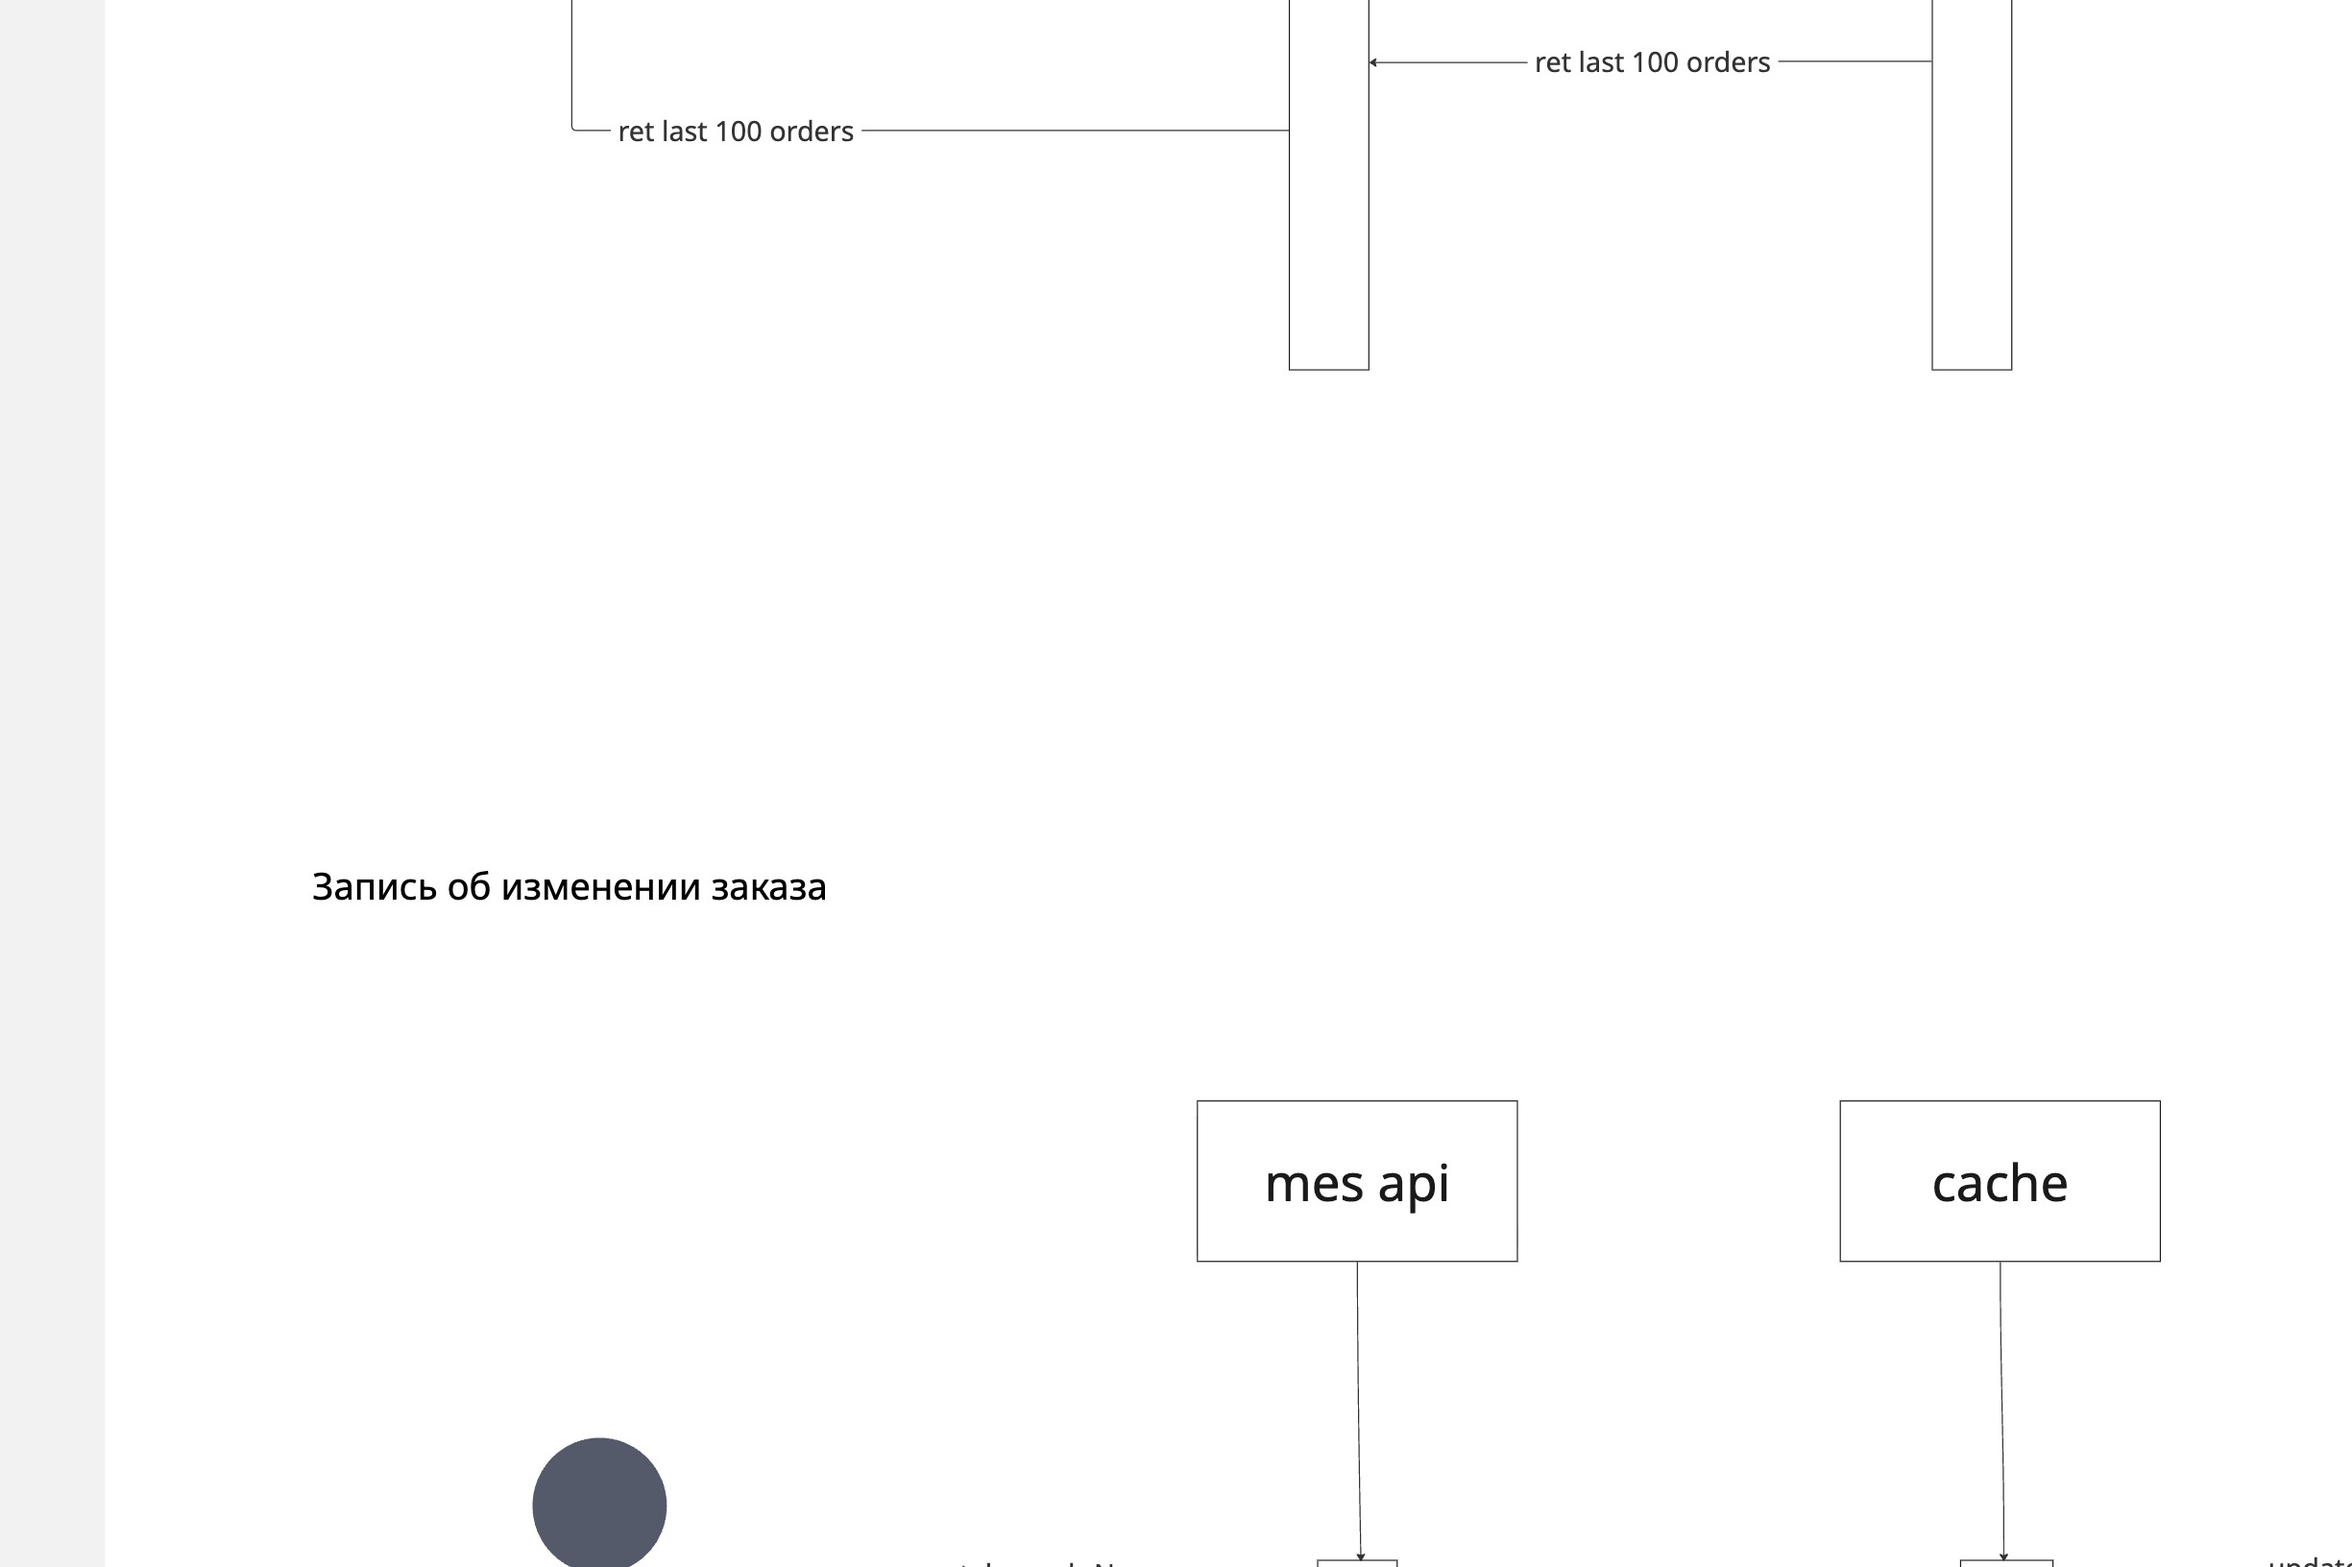
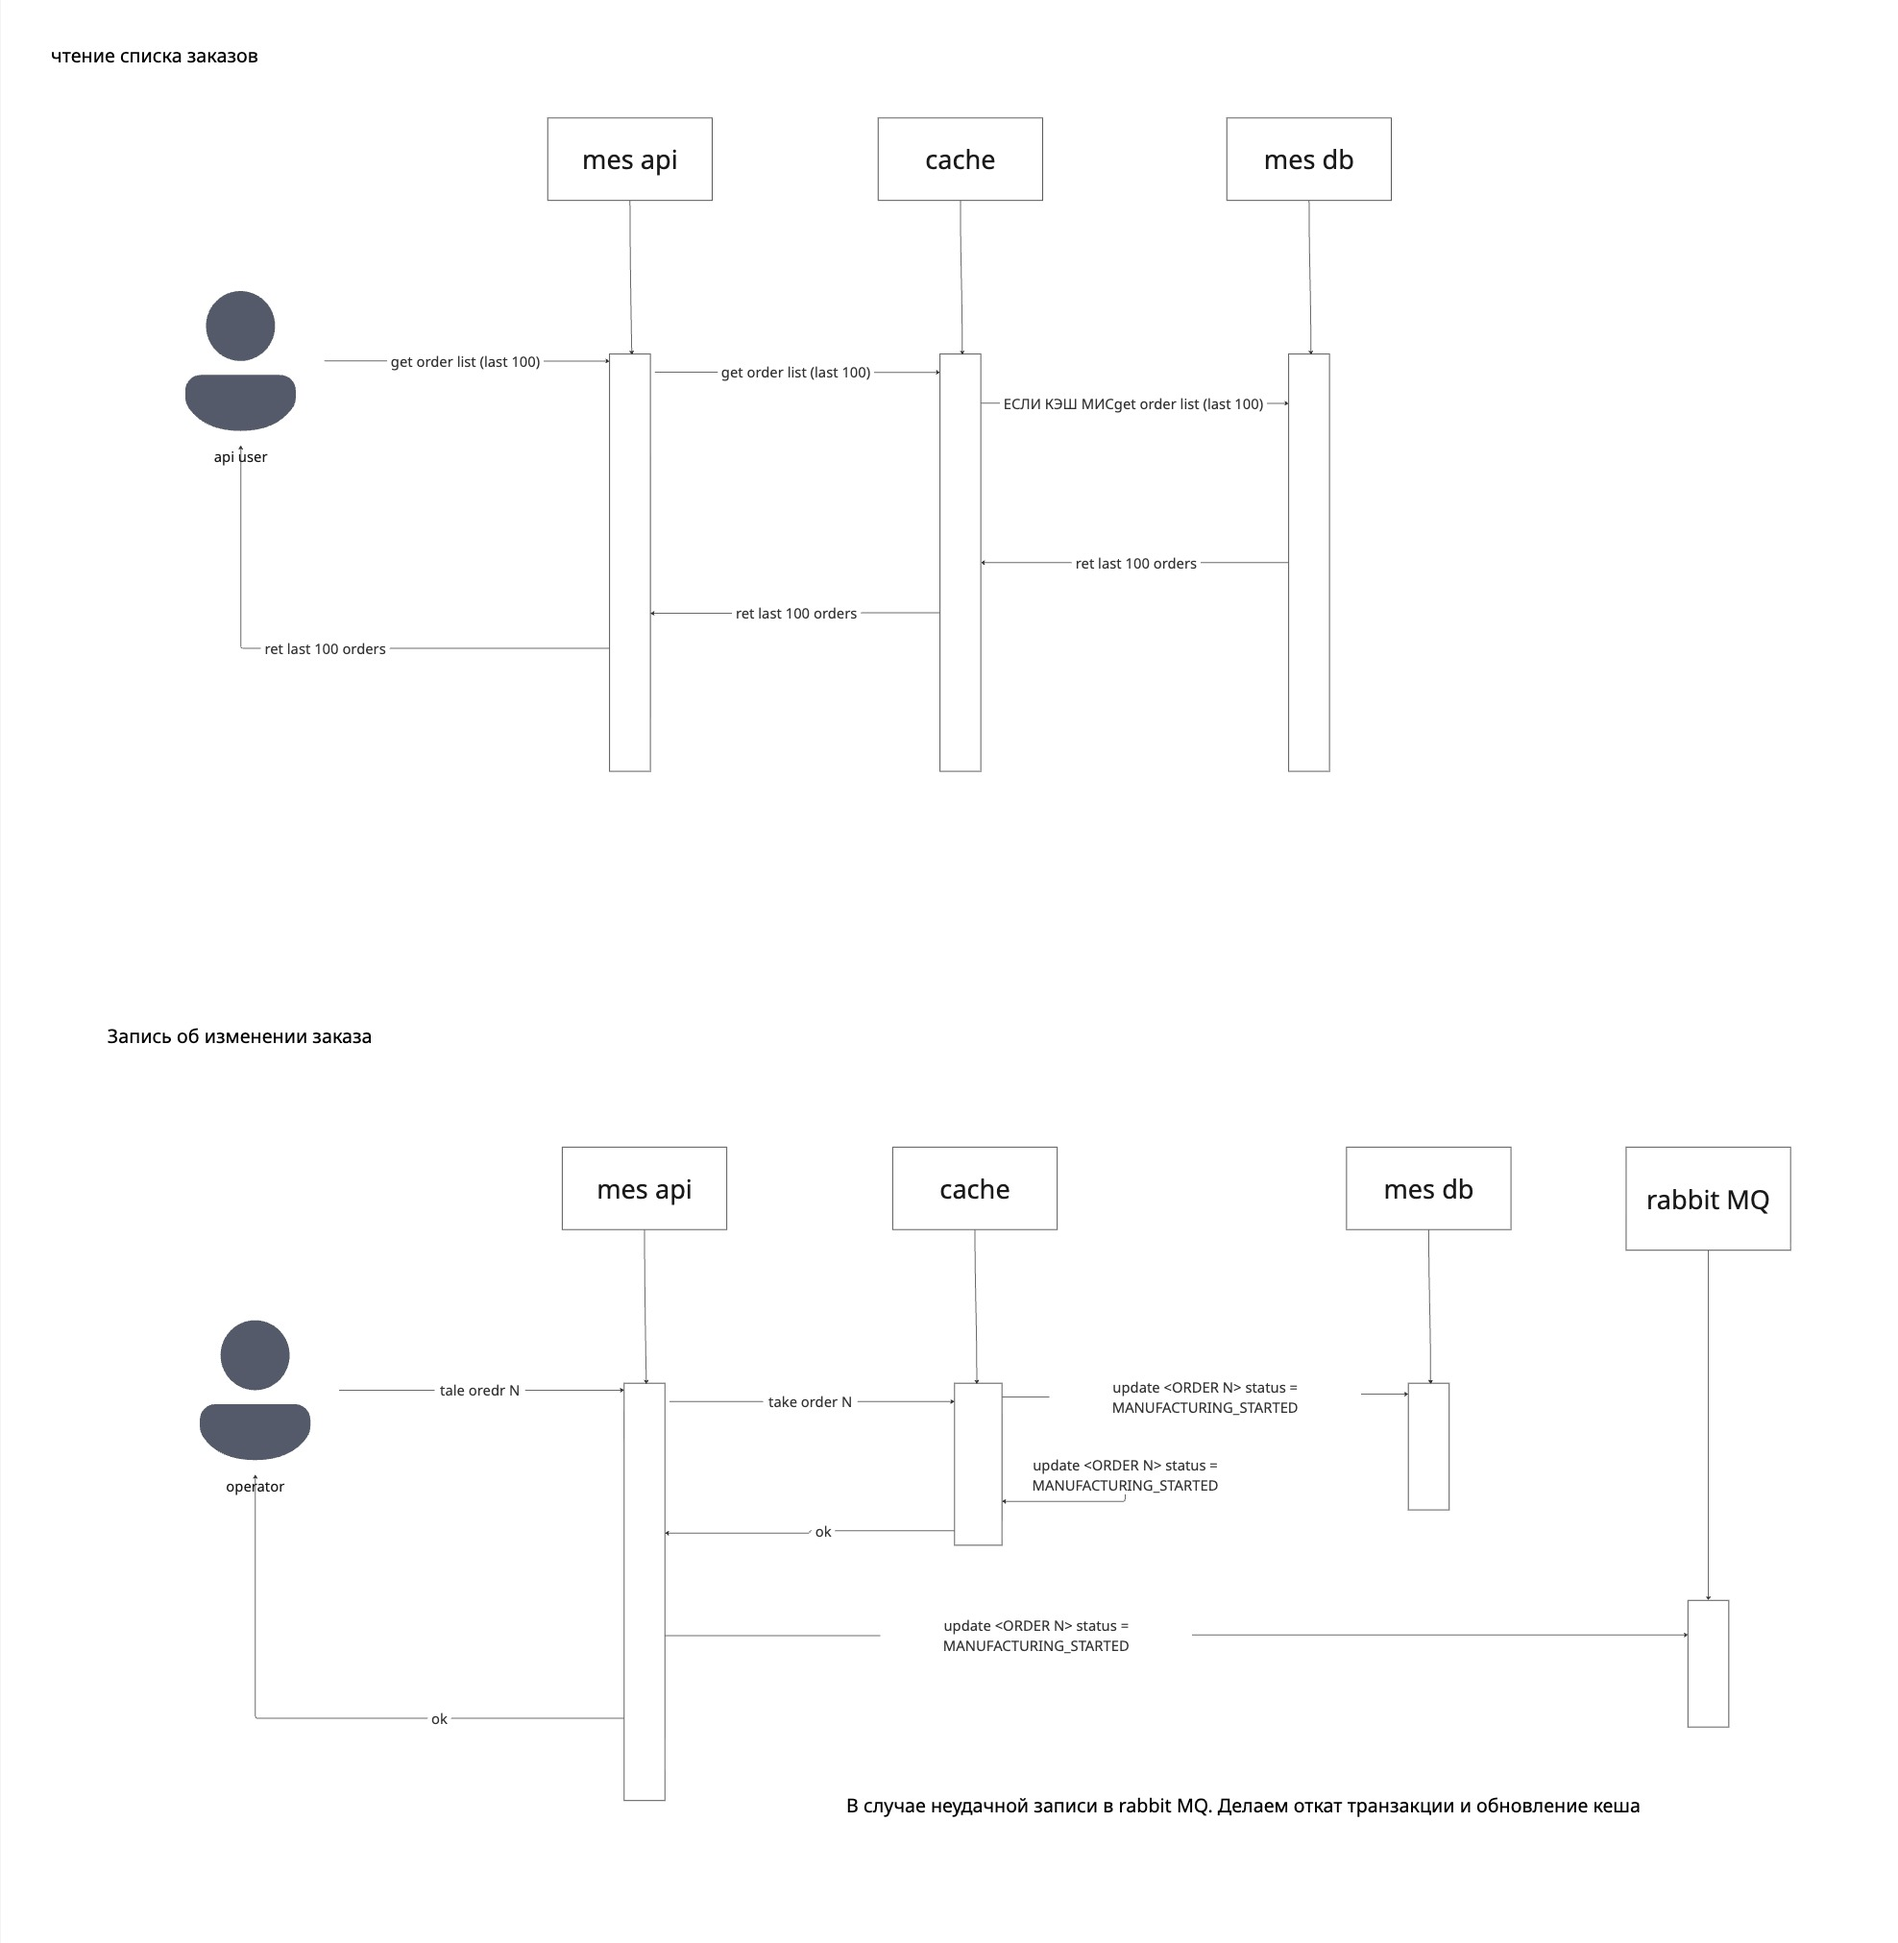
Task5 v2

diff --git a/Task5/Архитектурное решение по кешированию.md b/Task5/Архитектурное решение по кешированию.md
@@ -43,18 +43,45 @@
 
 
 ## «Предлагаемое решение»
-- MES API -> MES db - Refresh-Ahead + Write-Through. RA работает для обеспечеыния отображения свежих заказов, который можно вязть в работу. WT - обновляет кеш, помечая заказы как взятые в работу.
-- Internet Shop -> Shop API - Cache-Aside. Храним стат данные на стороне клиента. 
-- Shop API -> Shop DB - Read-Through. Храним данные о прочитаном заказае по TTL, чтобы предотвартить повторыне чтения из постоянного хранилища
-- CRM -> CRM API - Cache-Aside. Статические данные о заказе. Уменьшаем кол-во данных передаваемых по сети
-- CRM API -> 3d files storage - Read-Through. Храним данные о прочитаном заказае по TTL, чтобы предотвартить повторыне чтения из постоянного хранилища
+- MES API -> MES db - Refresh-Ahead + Write-Through. 
+ 
+RA - работает для обеспечения отображения свежих заказов, который можно вязть в работу. 
+WT - обновляет кеш, помечая заказы как взятые в работу.
+
+Почему не Cache-Aside. Низкая скорость обновления данных. Обрабатываются только операции чтения, а не записи. Следовательно, любая операция записи всегда будет миновать кеш и выполняться непосредственно в базу данных, что считается медленной операцией.
+Несогласованность данных в кеше с базой данных. Запись делается в базу данных, но не в кеш — в нём всё ещё старые данные. Чтобы справиться с этим, разработчики обычно используют параметр TTL для содержимого кеша и продолжают отдавать потенциально устаревшие данные до истечения TTL.
+
+- Internet Shop -> Shop API - Cache-Aside.
+ 
+Храним стат данные на стороне клиента. 
+
+Почему Cache-Aside - данные обновляются редко, допустима задержка в несколько секунд.
+
+Почему не Write-Through - CRM часто меняет данные вручную, лишние синхронные операции.
+
+- Shop API -> Shop DB - Read-Through. 
+
+Храним данные о прочитаном заказае по TTL, чтобы предотвартить повторыне чтения из постоянного хранилища
+Кеш не обновляется на стороне приложения — теперь это ответственность базы данных. В стратегии Read-Through кеш является вспомогательным сервисом БД и приложению не нужно обновлять кеш при чтении.
+
+Почему не Cache-Aside. Низкая скорость обновления данных. Обрабатываются только операции чтения, а не записи. Следовательно, любая операция записи всегда будет миновать кеш и выполняться непосредственно в базу данных, что считается медленной операцией.
+Несогласованность данных в кеше с базой данных. Запись делается в базу данных, но не в кеш — в нём всё ещё старые данные. Чтобы справиться с этим, разработчики обычно используют параметр TTL для содержимого кеша и продолжают отдавать потенциально устаревшие данные до истечения TTL.
+
+- CRM -> CRM API - Cache-Aside. 
+
+Статические данные о заказе. Уменьшаем кол-во данных передаваемых по сети.
+
+Почему Cache-Aside - данные обновляются редко, допустима задержка в несколько секунд.
+
+Почему не Write-Through - CRM часто меняет данные вручную, лишние синхронные операции.
+
+- CRM API -> 3d files storage - Read-Through. 
+
+Храним данные о прочитаном заказае по TTL, чтобы предотвартить повторыне чтения из постоянного хранилища
+Почему не Cache-Aside - т.к. данные могу быть довольно объемны, хранить их на стороне клиента увеличивит наклодные расходы клиента
 
 [Sequence diagram](./Sequence_diagram.jpg)
 
-### Нарисуйте диаграмму последовательности действий (Sequence diagram).
-Отобразите там, как проходит операция чтения списка заказов и запись об изменении статуса заказа. 
-Там же опишите процесс кеширования с указанием всех сущностей, которые участвуют в кешировании. 
-Добавьте диаграмму в раздел «Предлагаемое решение».
 
 ### стратегия инвалидации кеша
 - MES API -> 3d files storage - Refresh-Ahead + Write-Through. Временна, устанавлениваем TTL времени жизни обхектов + "по ключу" для данных которые взяли в рабтоту
